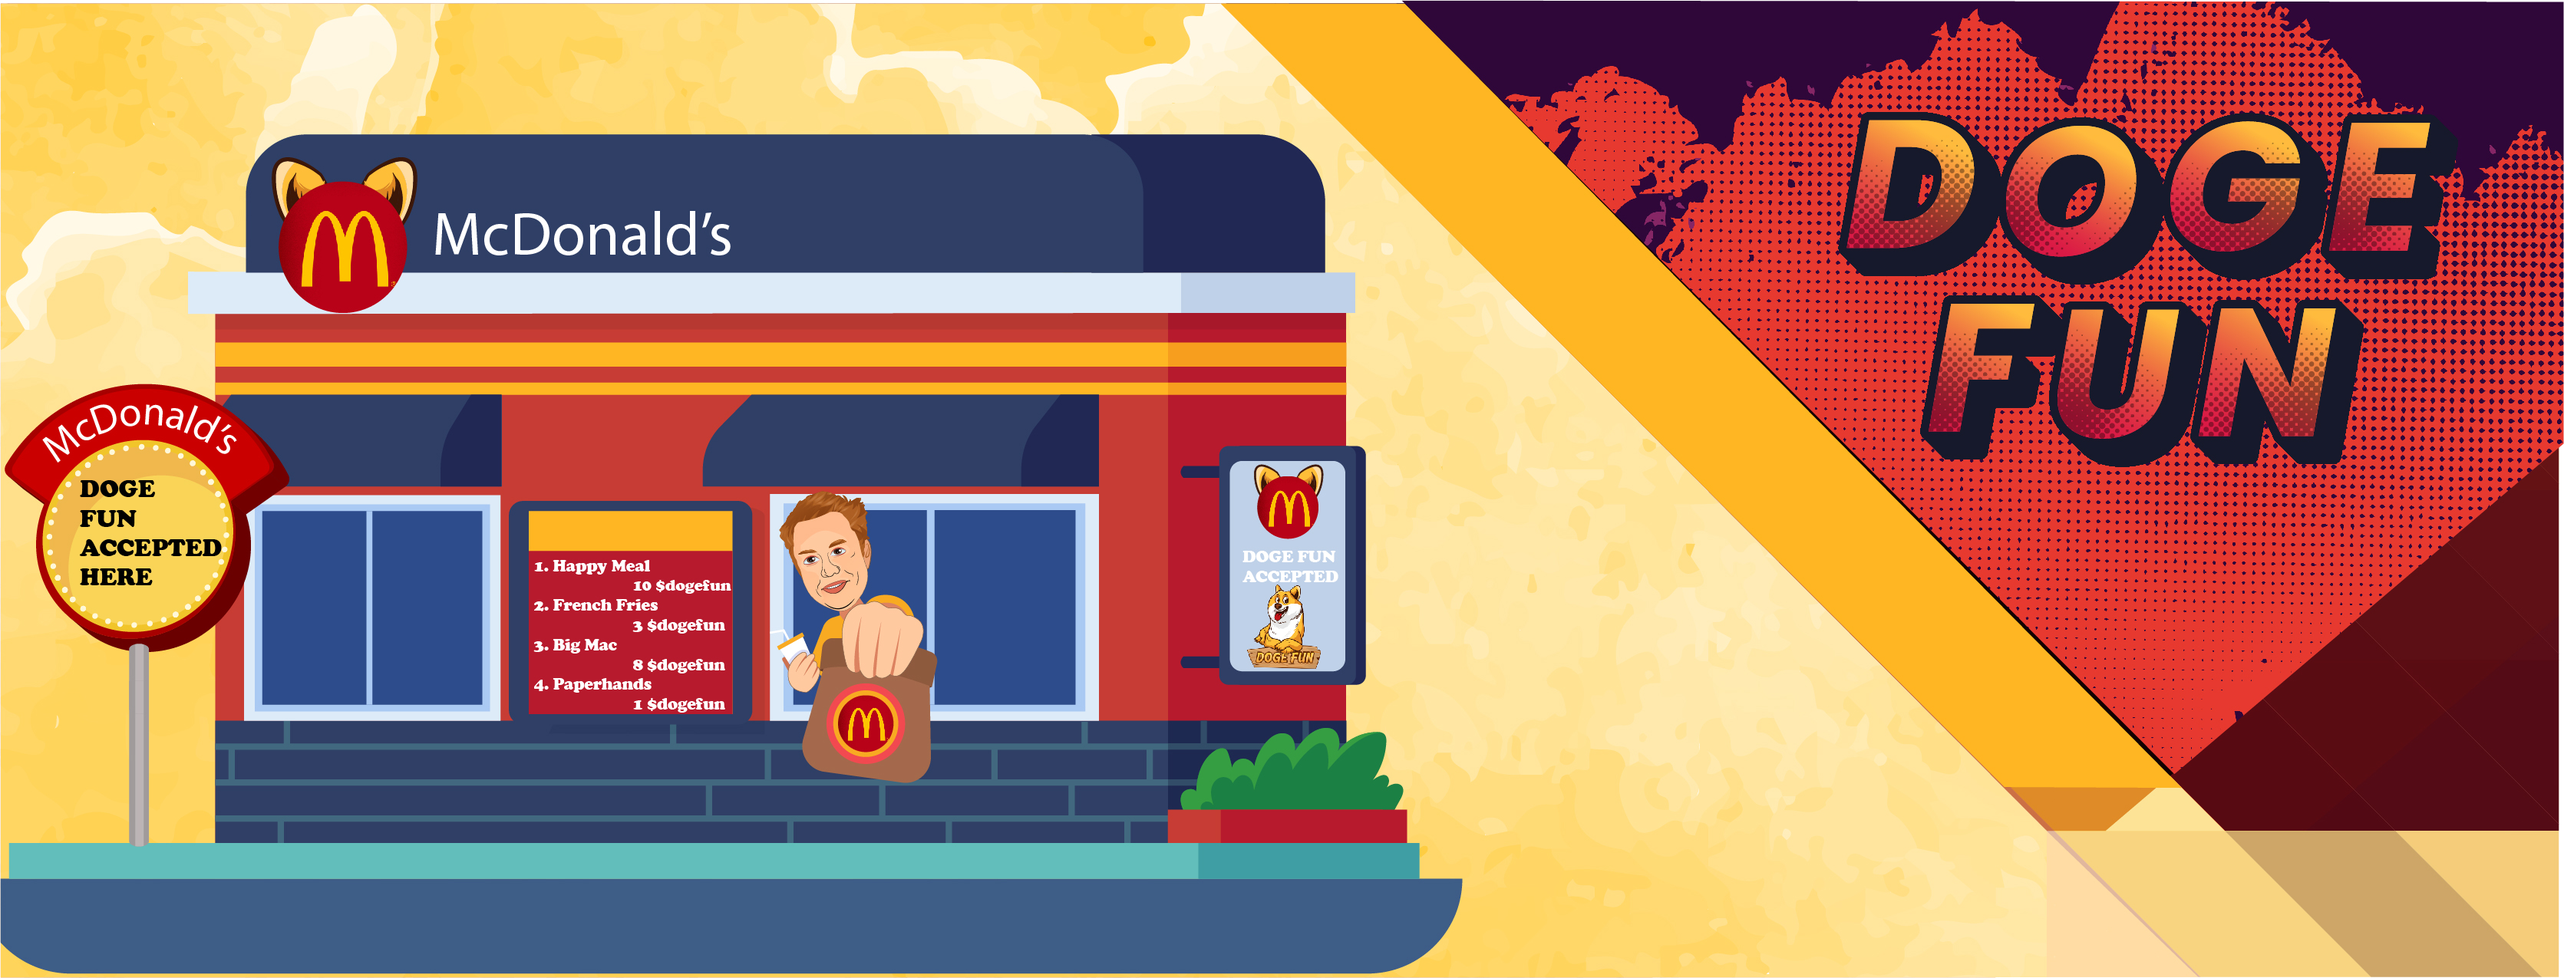
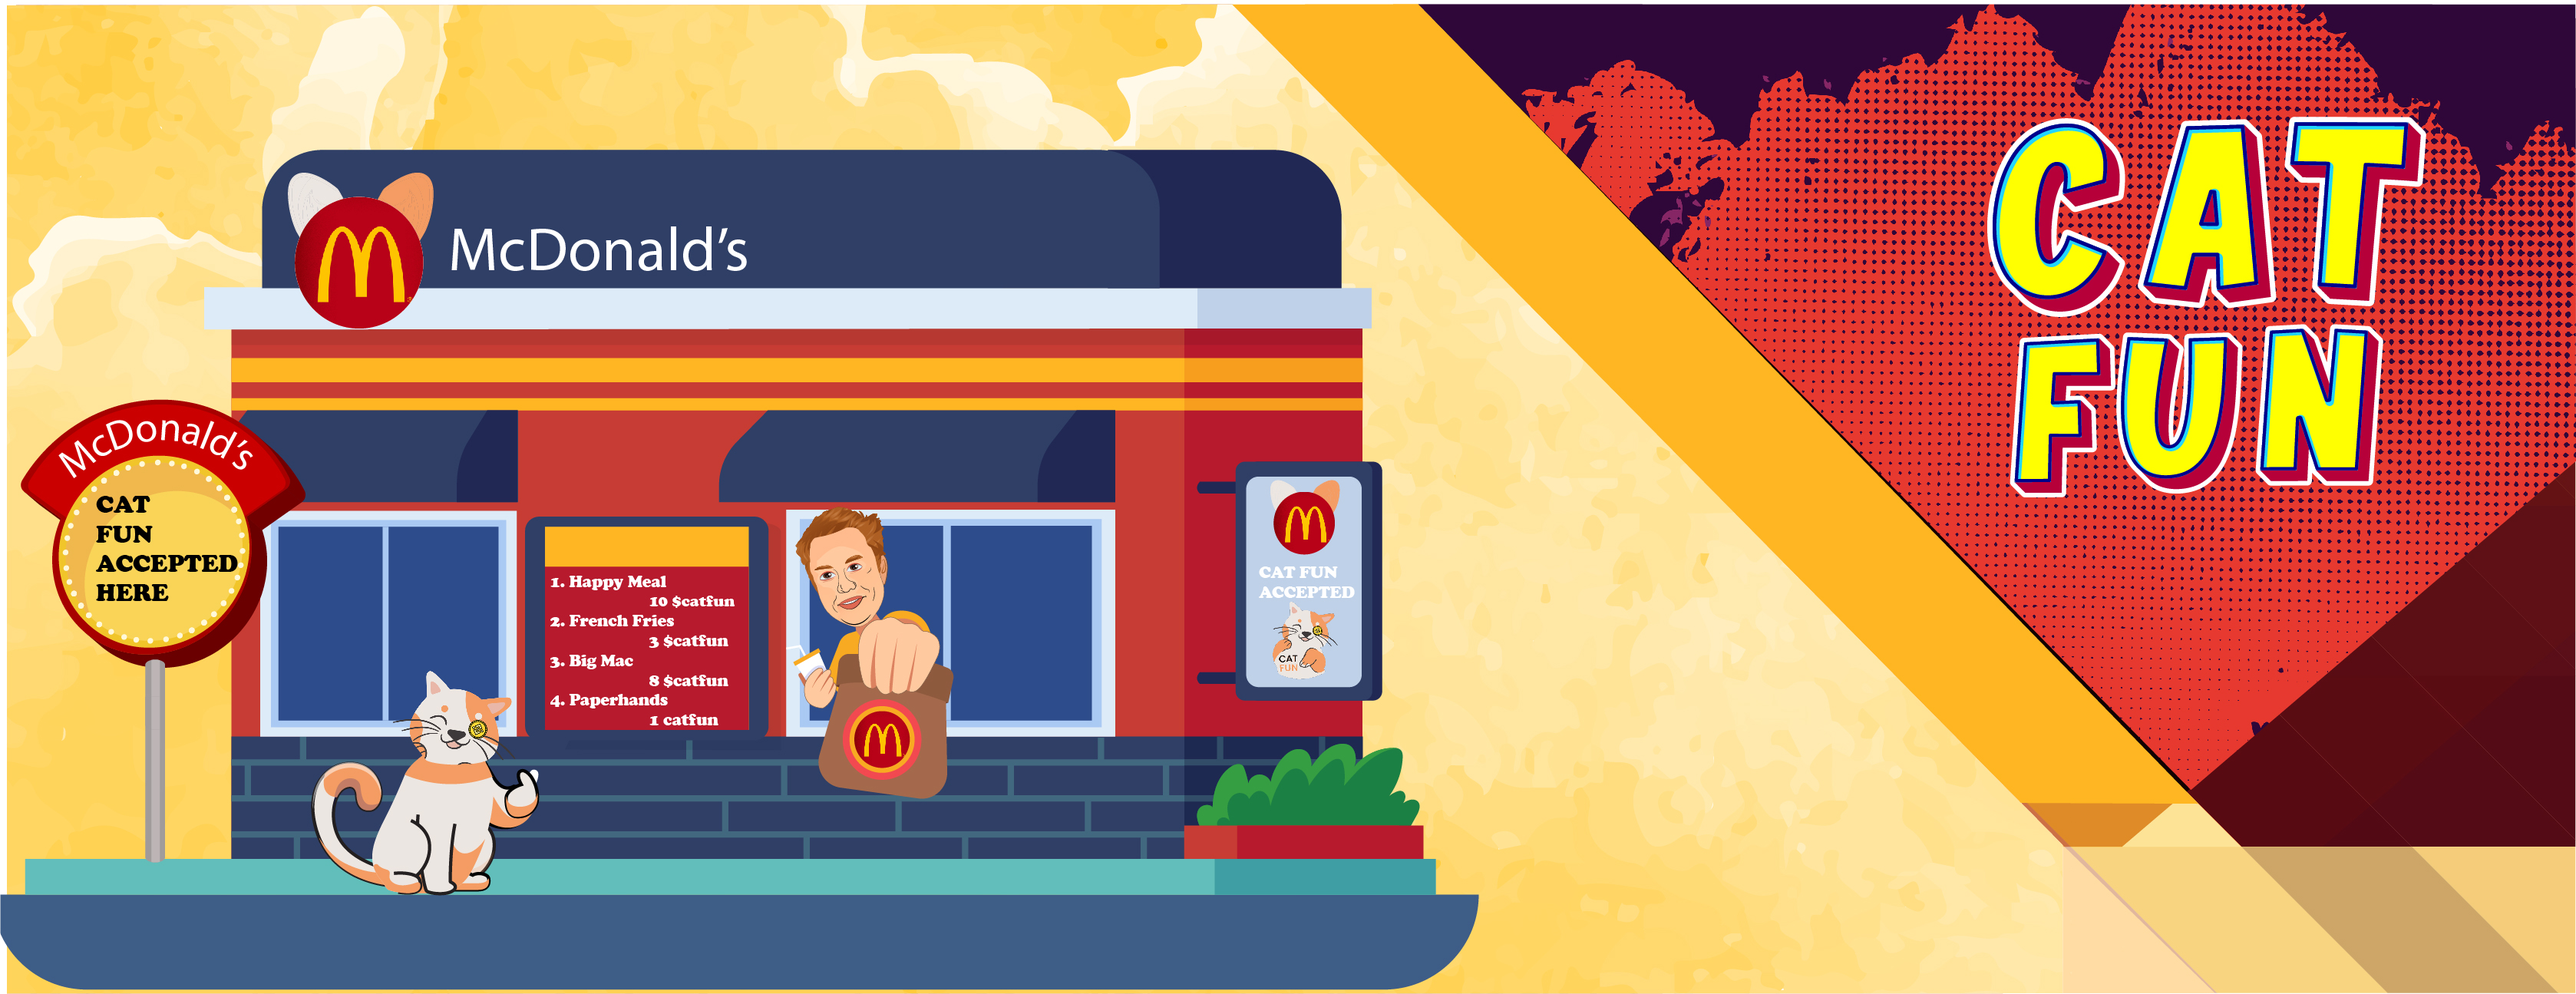
change product

diff --git a/components/section-detail.tsx b/components/section-detail.tsx
@@ -8,29 +8,34 @@ const Typography = styled(MuiTypography)`
   color: whitesmoke;
   padding-bottom: 0.5em;
 `
+
 function SectionDetail() {
     return (
         <Section>
             <Grid container>
                 <Grid item xs={12} sm={6}>
                     <Container>
-                        <Typography variant={"h3"} >WHY CATFUN, WHY MOONSHOT ?</Typography>
+                        <Typography variant={"h3"}>WHY CATFUN, WHY MOONSHOT ?</Typography>
                         <Typography variant={"subtitle1"}>
-                            Most projects are MOONSHOT but exaggerate as ECOSYSTEM. Meme projects are successful as moonshot with heavy marketing.
+                            Most projects are MOONSHOT but exaggerate as ECOSYSTEM. Meme projects are successful as
+                            moonshot with heavy marketing.
                             <br/>
                             <br/>
-                            We strongly believe that with the current hype of dogecoin with Mcdonald&apos;s, Elon Musk. This will certainly create extra hype for social algorithms.
+                            We strongly believe that with the current hype of dogecoin with Mcdonald&apos;s, Elon Musk.
+                            This will certainly create extra hype for social algorithms.
                             <br/>
                             <br/>
-                            However as the community and project grows. We have plans to develop a unique ecosystem that will benefit many &quot;Doge/Shiba/Floki&quot; related projects on the platform where their holders will be able to benefit from $DFUN Ecosystem.
+                            However as the community and project grows. We have plans to develop a unique ecosystem that
+                            will benefit many &quot;Doge/Shiba/Floki&quot; related projects on the platform where their
+                            holders will be able to benefit from $DFUN Ecosystem.
                         </Typography>
                     </Container>
                 </Grid>
-                <Grid item xs={12} sm={6} sx={{margin: 'auto'}}>
-                    <Container>
-                        <Image alt={'section image'} src={SectionImage} width={'650em'} height={"500em"}
-                               />
-                    </Container>
+                <Grid item xs={12} sm={6} sx={{margin: 'auto'}} textAlign={'center'}>
+                    {/*<MyContainer>*/}
+                    <Image alt={'section image'} src={SectionImage} width={'450em'} height={"400em"}
+                    />
+                    {/*</MyContainer>*/}
                 </Grid>
             </Grid>
         </Section>

diff --git a/components/section-buttons.tsx b/components/section-buttons.tsx
@@ -48,7 +48,7 @@ function SectionButtons() {
                 </Grid>
                 <Grid item sm={12} md={6} sx={{margin: 'auto'}}>
                     <Container>
-                        <Image alt={'section image'} src={SectionImage} width={'400em'} height={"300em"}
+                        <Image alt={'section image'} src={SectionImage} width={'300em'} height={"250em"}
                                />
                     </Container>
                 </Grid>

diff --git a/components/section.tsx b/components/section.tsx
@@ -3,7 +3,7 @@ import styled from "@emotion/styled";
 const Section = styled.section`
   display: flex;
   margin: auto;
-  padding: 20px 30px;
+  padding: 4rem 30px;
 `
 
 export default Section
